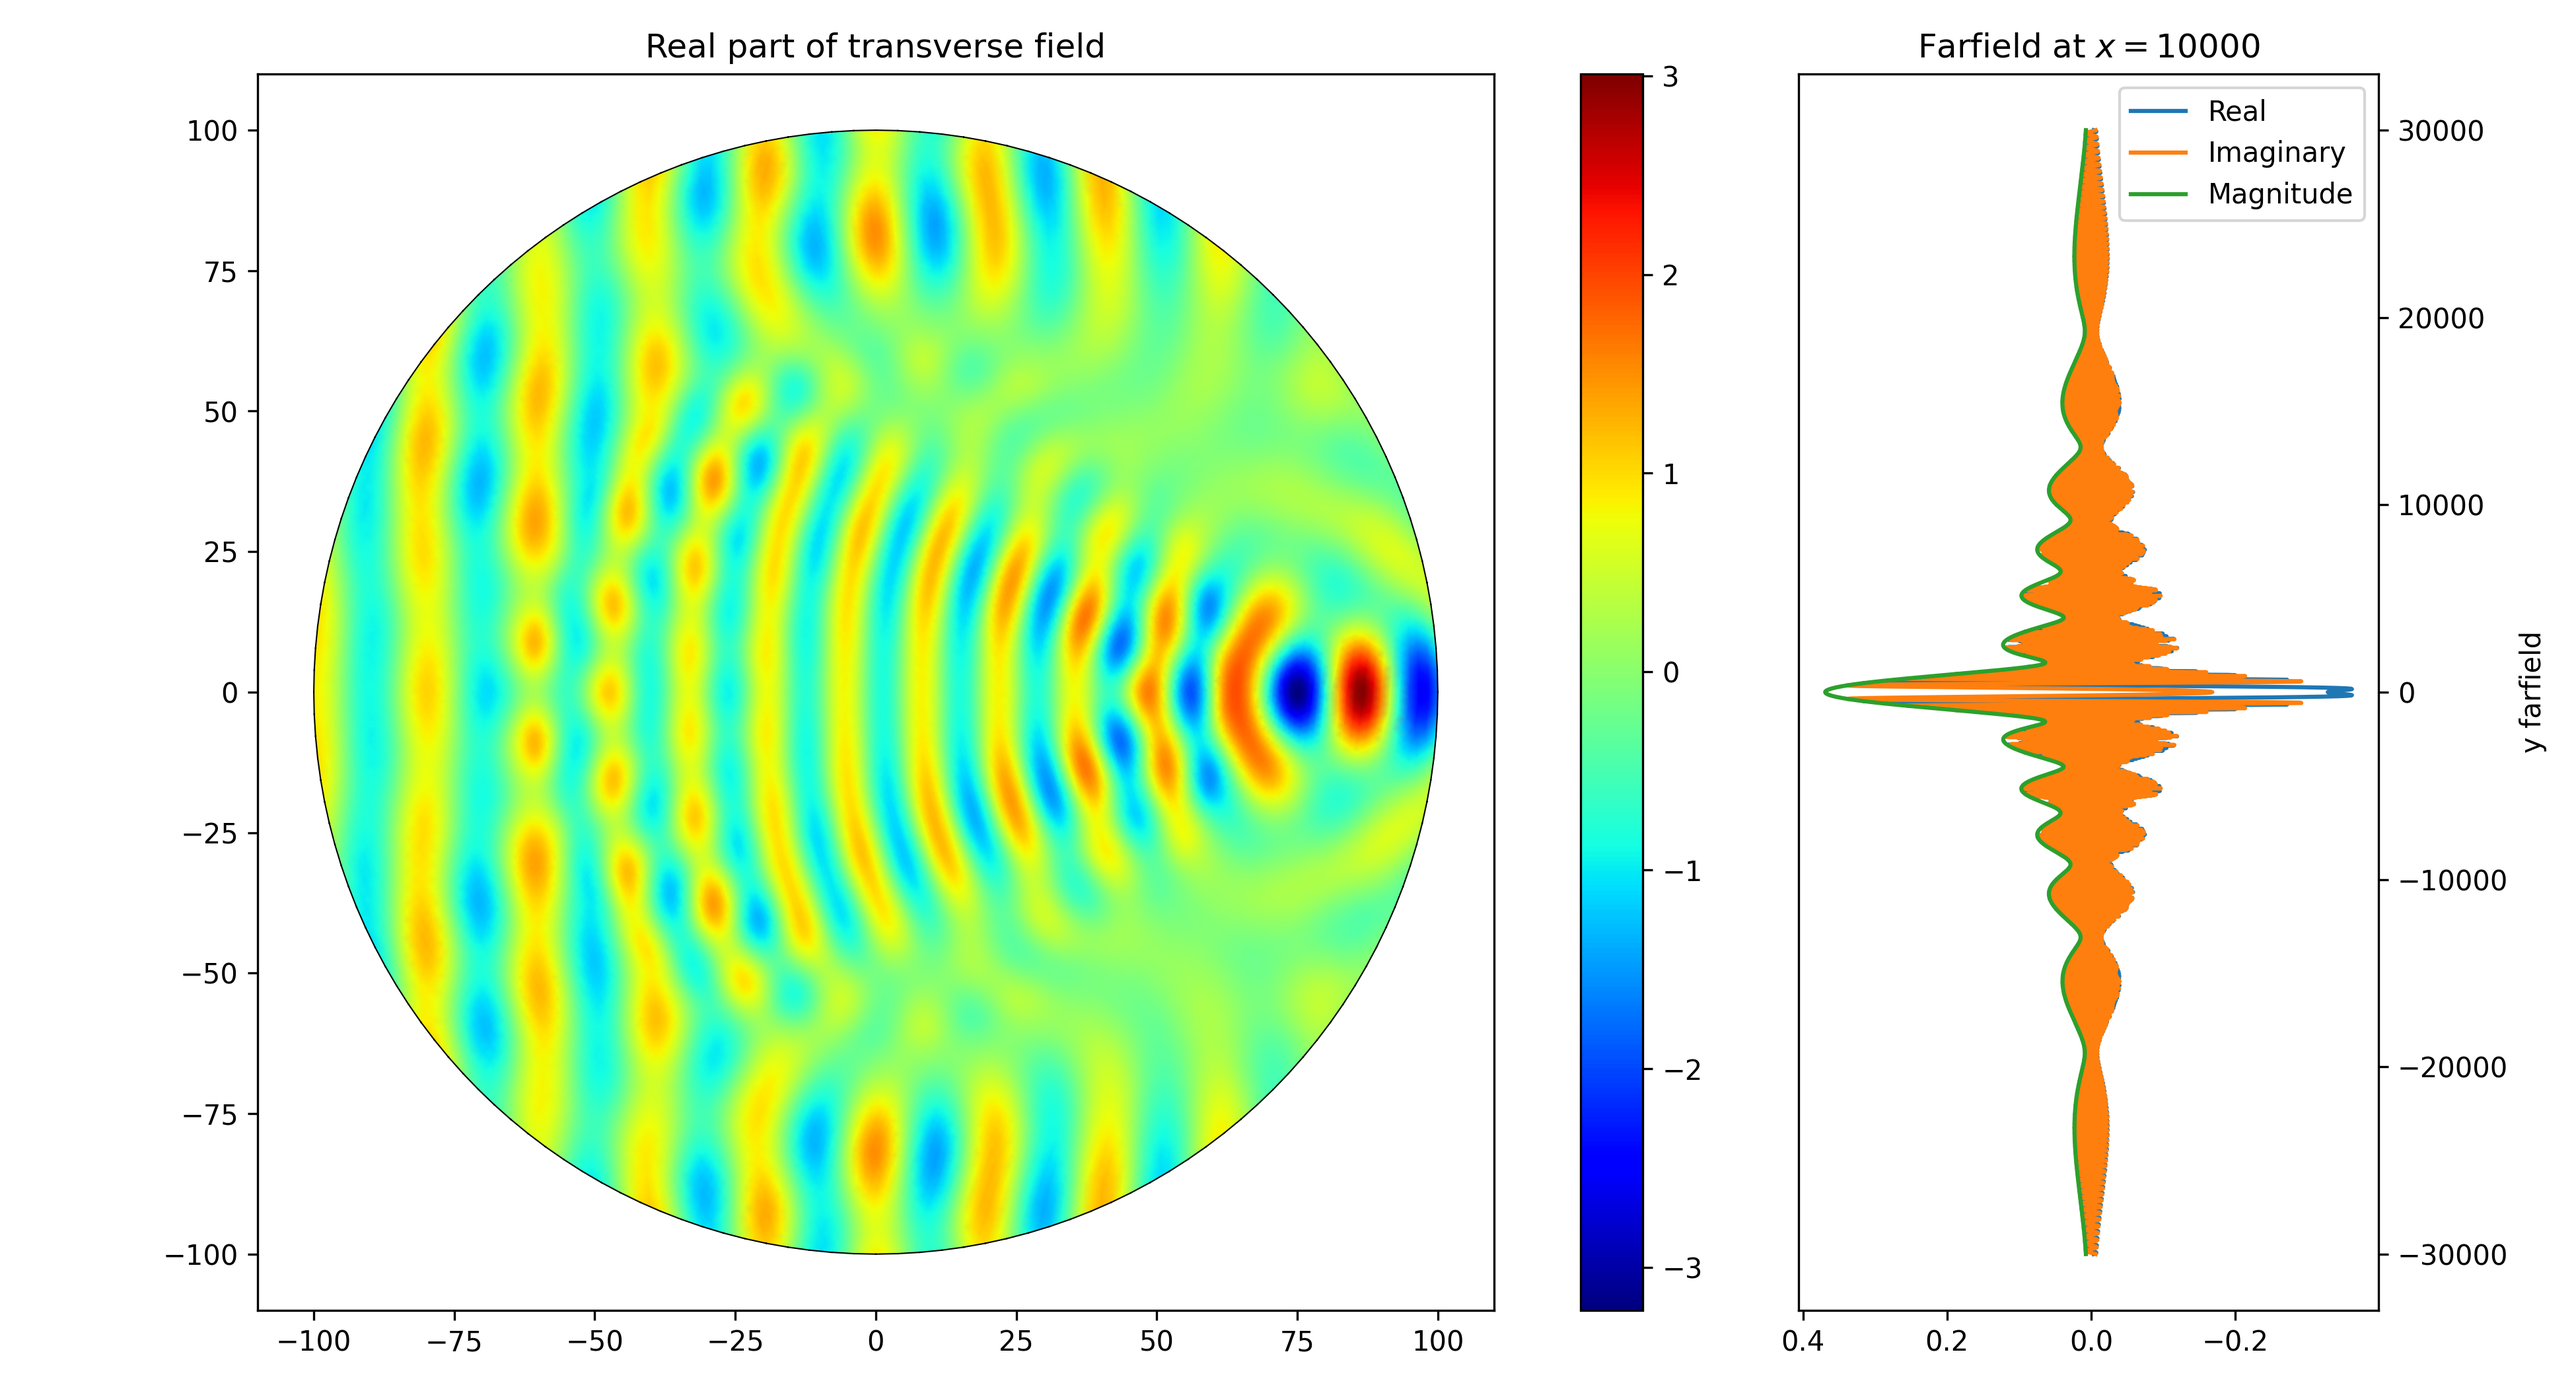
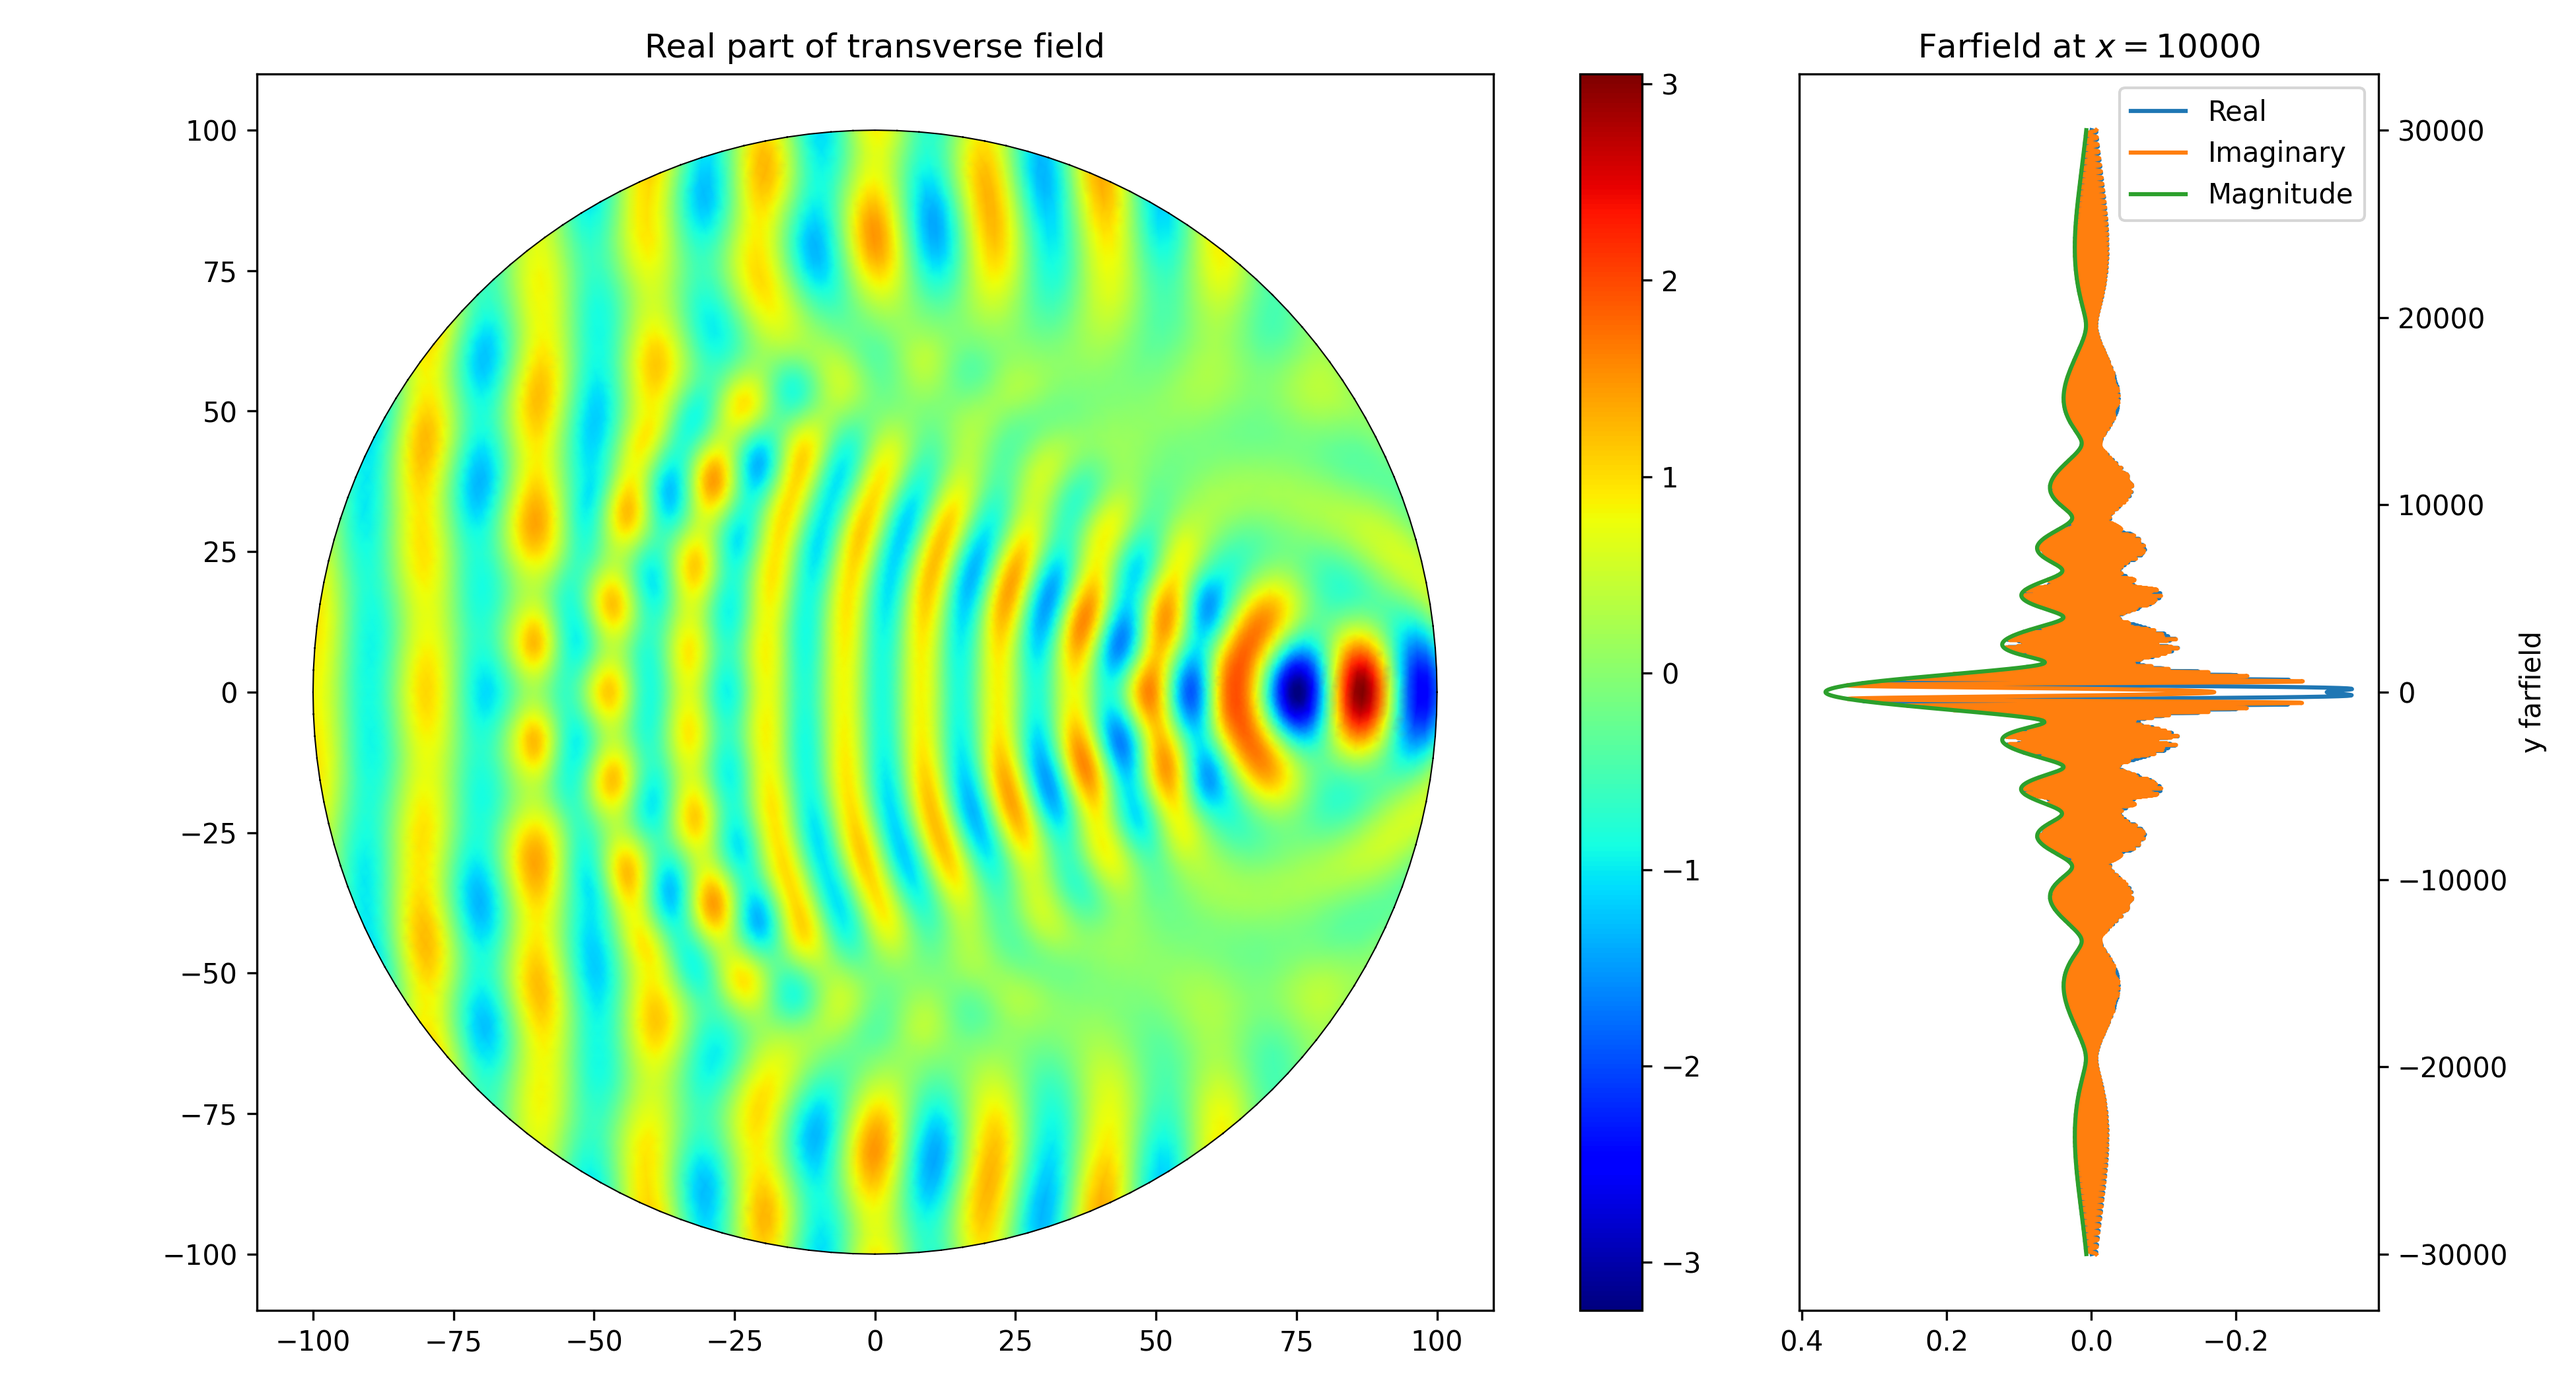
Implemented second-order ABC

Changed region(s): [[0.6205, 0.1857, 0.6515, 0.2167]]

diff --git a/examples/dielectric_scatterer/scatterer_fem.py b/examples/dielectric_scatterer/scatterer_fem.py
@@ -57,22 +57,22 @@ fem.assemble_subdomains(alpha={'air': alpha_air,
 # get boundary locations (coordinates) and curvature
 x, y = fem.basis.doflocs[:, fem.basis.get_dofs()]
 r = np.sqrt(x ** 2 + y ** 2)
-phi = np.arctan2(y, x)
 kappa = get_curvature(x, y, wrapped=True)
 
 # calculate incident field at boundary
 kr = k0 * (x * np.cos(theta_laser) + y * np.sin(theta_laser))
+
 phi0 = 1.0 * np.exp(-1j * kr)
 dphi0_dn = -1j * kr / r * phi0
-d2phi0_ds2 = -1j * k0 / r * (y * np.cos(theta_laser) + x * np.sin(theta_laser) ** 2) * phi0
+d2phi0_ds2 = (-1j * k0 / r * (-y * np.cos(theta_laser) + x * np.sin(theta_laser))) ** 2 * phi0
 
-# first order absorber
-g1 = 1j * k0 + kappa / 2
-g2 = 0
+# first order absorbing boundary condition
+#g1 = 1j * k0 + kappa / 2
+#g2 = 0
 
-# second order absorber
-#g1 = 1j * k0 + kappa / 2 - 1j * kappa ** 2 / (8 * (1j * kappa - k0))
-#g2 = -1j / (2 * (1j * kappa - k0))
+# second order absorbing boundary condition
+g1 = 1j * k0 + kappa / 2 - 1j * kappa ** 2 / (8 * (1j * kappa - k0))
+g2 = -1j / (2 * (1j * kappa - k0))
 
 q = alpha_air * (dphi0_dn + g1 * phi0 + g2 * d2phi0_ds2)
 fem.assemble_boundaries_3rd(gamma={'bound': alpha_air * g1},
@@ -86,9 +86,6 @@ t1 = timer()
 fem.solve(direct=True, cuda=False)
 t2 = timer()
 print(f'Solving took {t2 - t1:.3f} s\n')
-
-#plot(fem.basis, fem.phi.real, shading='gouraud', colorbar=True)
-#show()
 
 print('near2far()')
 t1 = timer()

diff --git a/examples/dielectric_scatterer/README.md b/examples/dielectric_scatterer/README.md
@@ -7,6 +7,30 @@ Three subdomains with circular boundaries/interfaces:
 - 'core': Inside part of the scatterer (core of an optical fiber)
 ![mesh](scatterer_mesh.png)
 
+## Subdomain parameters
+The subdomain parameters are defined for TM polarization:
+- $\alpha_{air} = 1 / \mu_{air}$
+- $\alpha_{core} = 1 / \mu_{core}$
+- $\alpha_{cladding} = 1 / \mu_{cladding}$
+- $\beta_{air} = -1 * k_0^2 * \epsilon_{air}$
+- $\beta_{core} = -1 * k_0^2 * \epsilon_{core}$
+- $\beta_{cladding} = -1 * k_0^2 * \epsilon_{cladding}$
+
+The freespace wavenumber is defined with the desired wavelength of the laser source of 20 µm: $k_0 = \frac{2 \pi}{20}$.
+
+## Absorbing boundary condition
+The general third-order boundary condition $\alpha \frac{\partial \Phi}{\partial \hat{n}} + \gamma \Phi = q$ can be used to formulate the boundary conditions for a first-order or second-order absorber.
+A first-order absorbing boundary is obtained with the following equations for $\gamma$ and $q$:
+- $\gamma = \alpha (j k_0 + \frac{\kappa(s)}{2}$
+- $q = \alpha \frac{\partial \Phi_{inc}}{\partial \hat{n}} + \alpha \gamma \Phi_{inc}$
+where $\Phi_{inc}$ is the incident (source) field, $\kappa(s)$ is the curvature of a section $s$ on the boundary.
+
+A second-order absorbing boundary condition also depends on the second derivatives of the total (unknown) field $\Phi$ and the incident field $\Phi_{inc}$ with respect to the section $s$:
+- $\gamma = \gamma_1 + \gamma_2 \frac{\partial^2}{\partial s^2}$
+- $\gamma_1 = j k_0 + \frac{\kappa(s)}{2} - \frac{j \kappa(s)^2}{8(j \kappa(s) - k_0))}$
+- $\gamma_2 = \frac{j}{2(j \kappa(s) - k_0)}$
+- $q = \alpha \frac{\partial \Phi_{inc}}{\partial \hat{n}} + \alpha \gamma_1 \Phi_{inc} + \alpha \gamma_2 \frac{\partial^2 \Phi_{inc}}{\partial s^2}$
+
 ## Solution without the scatterer
 An empty domain is created with $\epsilon_{air} = \epsilon_{cladding} = \epsilon_{core} = 1$:
 ![solution](scatterer_empty.png)
